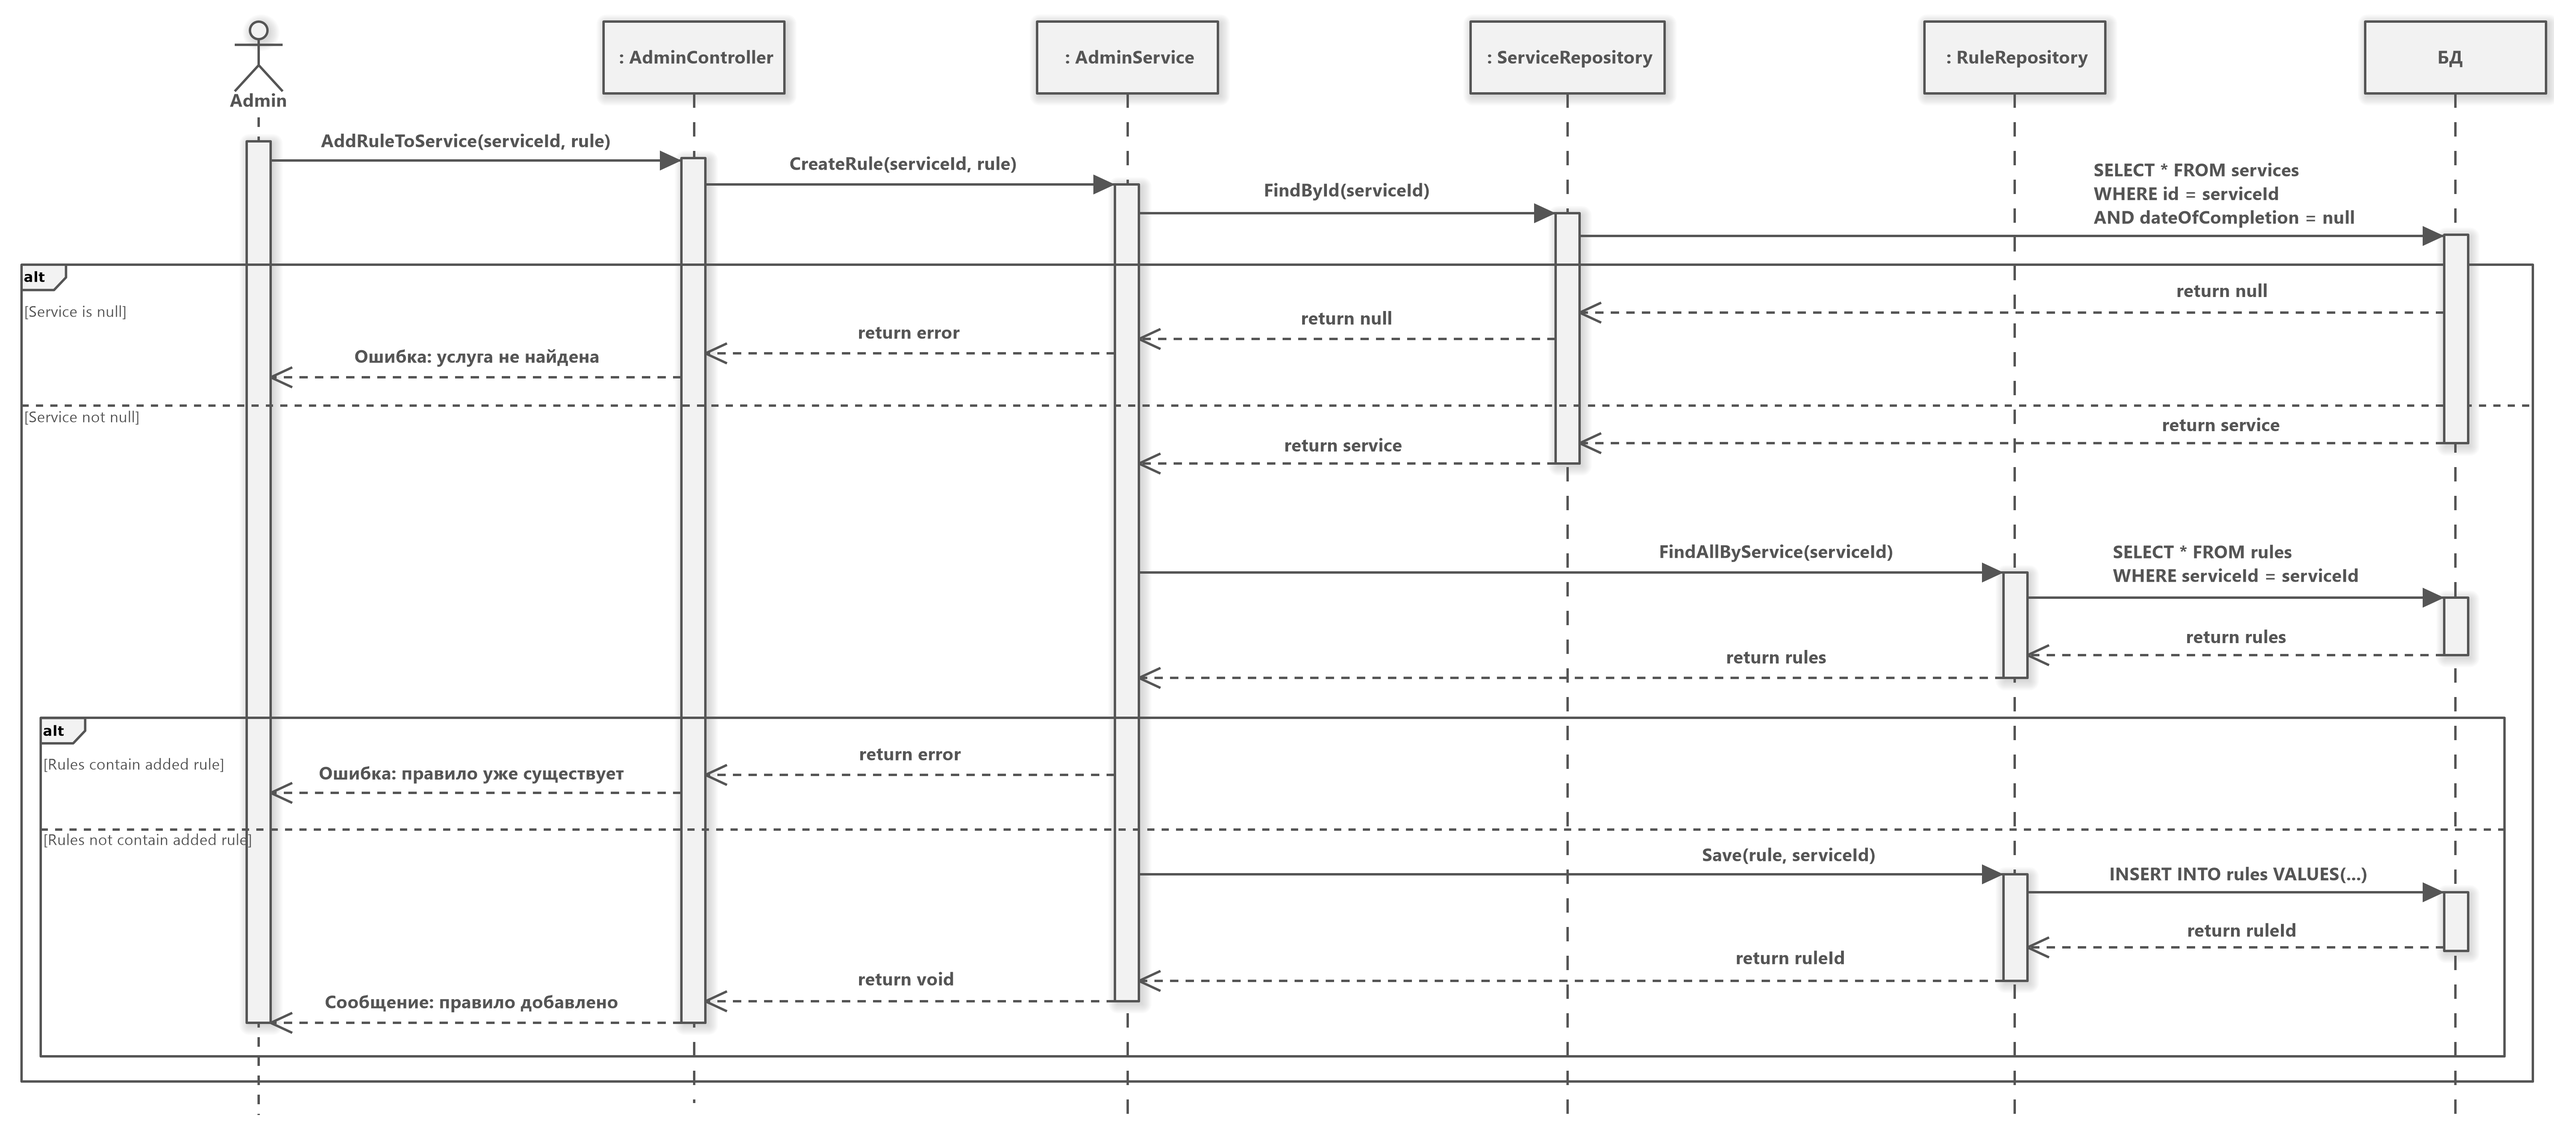
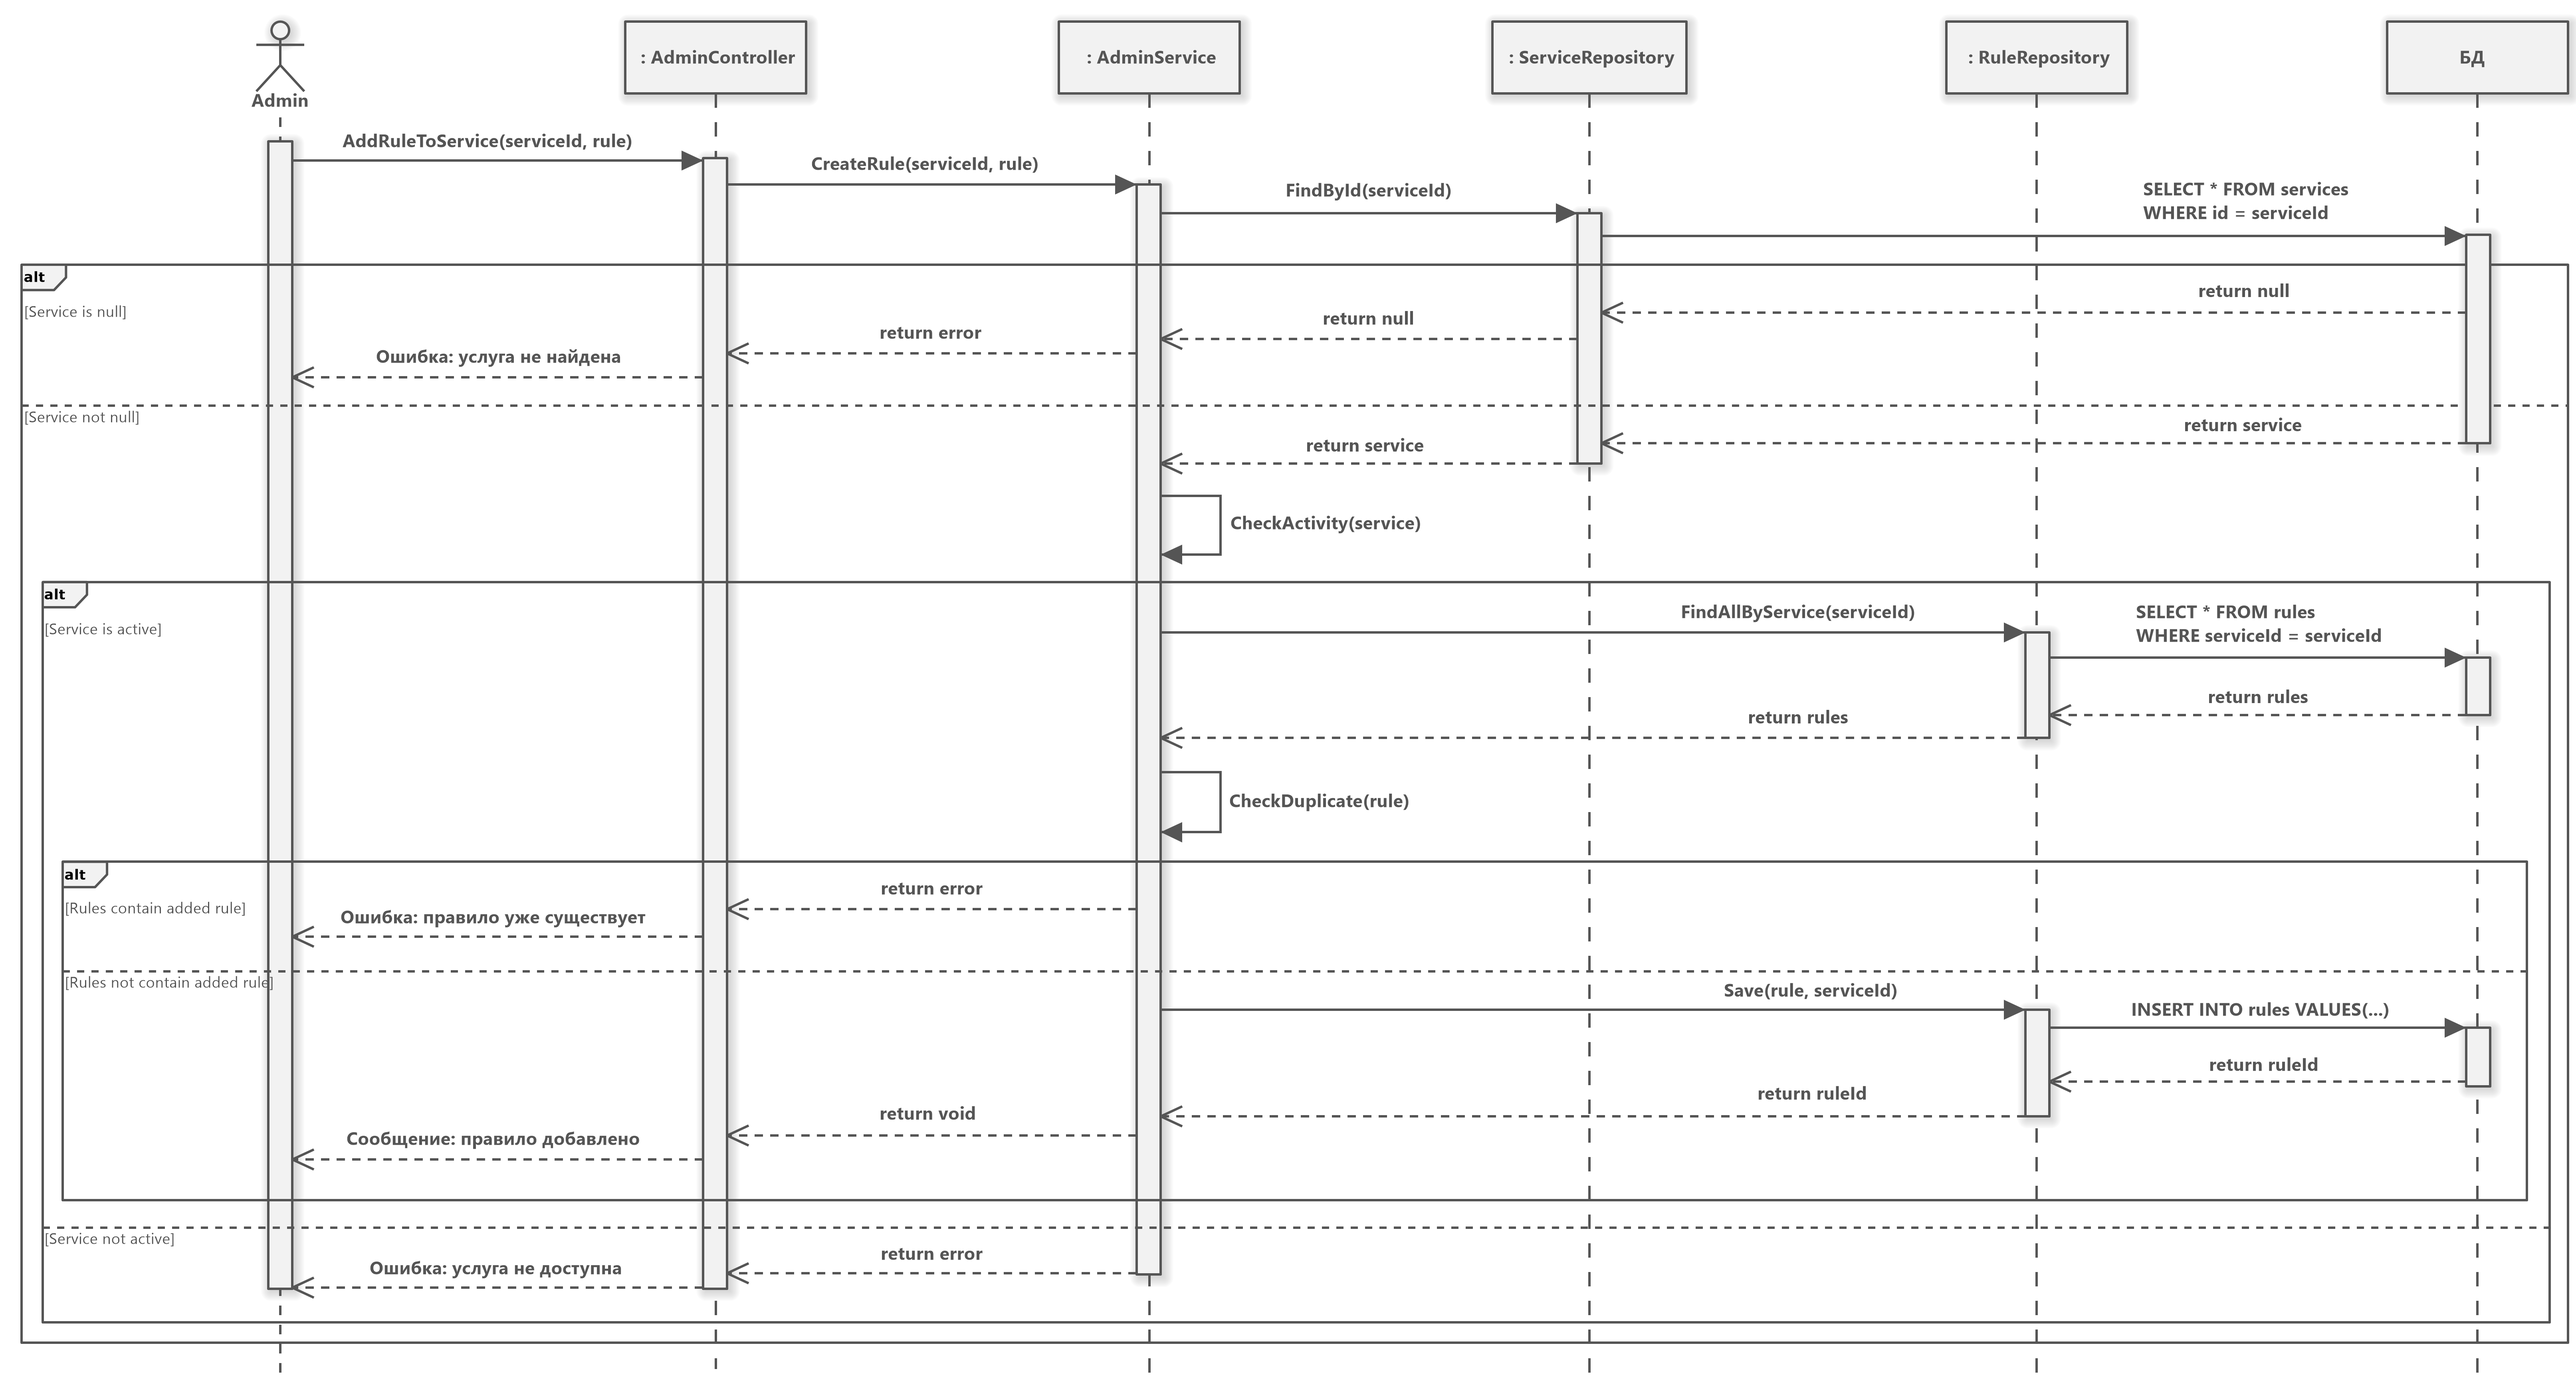
Remake Sequences Two

diff --git a/4. Системная диаграмма последовательности/Последовательности.md b/4. Системная диаграмма последовательности/Последовательности.md
@@ -27,9 +27,11 @@
 	- Cохраняет услугу через метод Save из ServiceRepository в БД.
 	- Возвращается идентификатор только что добавленной услуги.
 	- Если список правил не пустой:
-		- Метод обращается к БД через FindAllByService, получая список существующих правил.
-		- Проверяется, имеет ли каждое добавляемое правило дубликат. Если нет: 
-			- Добавляемое правило сохраняется в БД через метод Save из RuleRepository.
+		- Возвращается список уже существующих правил.
+		- Для каждого правила:
+			- Проверяется, является ли добавляемое правило дубликатом в списке. Если нет:
+				- Метод обращается к БД через FindAllByService, получая список существующих правил.
+				- Добавляемое правило сохраняется в БД через метод Save из RuleRepository.
 - CreateService из AdminService возвращает экземпляр созданной услуги, и AdminController оповещает о том, что услуга была добавлена.
 ### Сделать услугу недоступной
 ![](Диаграммы/Admin.MakeServiceInactive.png)
@@ -45,8 +47,12 @@
 	- AdminController отображает ошибку, что услуга не существует.
 - Услуга существует (Service not null): 
 	- БД возвращает услугу.
+	- AdminService проверяет, активна ли услуга.
+- Услуга активна (Service is active):
 	- AdminService обновляет через Update из ServiceRepository endDateOfValidity, устанавливая текущую дату, что равноценно прекращению действия услуги.
 	- AdminController отображает сообщение, что услуга больше не активна.
+- Услуга не активна (Service not active):
+	- AdminController возвращает сообщение об ошибке, что услуга не доступна.
 ### Добавить правило
 ![](Диаграммы/Admin.AddRule.png)
 **Основной сценарий:**
@@ -61,8 +67,13 @@
 	- AdminController возвращает сообщение об ошибке, что услуга не найдена.
 - Услуга существует (Service not null):
 	- БД возвращает услугу.
+	- AdminService проверяет, активна ли услуга.
+- Услуга активна (Service is active):
 	- AdminService запрашивает список всех правил услуги через FindAllByService из RuleRepository.
 	- БД возвращает список правил.
+	- AdminService проверяет rule на дубликат, используя полученные rules.
+- Услуга не активна (Service not active):
+	- AdminController возвращает сообщение об ошибке, что услуга не доступна. 
 - Правила услуги содержат добавляемое правило (Rules contain added rule):
 	- AdminController возвращает ошибку, что такое правило уже существует.
 - Правила услуги не содержат добавляемое правило (Rules not contain added rule):
@@ -248,9 +259,13 @@
 	- UserController возвращает сообщение об ошибке, что услуга не найдена.
 - Услуга существует (Service not null):
 	- БД возвращает услугу.
+	- UserService проверяет, активна ли услуга.
+- Услуга активна (Service is active):
 	- UserService вызывает Save из UserRepository.
 	- UserRepository обращается к БД, сохраняет заявку.
 	- UserController возвращает сообщение, что заявка создана.
+- Услуга не активна (Service not active):
+	- UserController возвращает сообщение об ошибке, что услуга не доступна.
 ### Отследить статус заявки
 ![](Диаграммы/User.GetRequestStatus.png)
 **Основной сценарий:**

diff --git a/3. Диаграмма классов/Классы.md b/3. Диаграмма классов/Классы.md
@@ -52,7 +52,7 @@
 - Update — обновляет правило
 - Delete — удаляет правило
 ### RequestRepository
-- GetAll — возвращает все заявки
+- GetAllByStatys — возвращает все заявки по статусу
 - FindById — возвращает конкретную заявку
 - Save — создаёт заявку и возвращает назначенный идентификатор
 - Update — обновляет заявку
